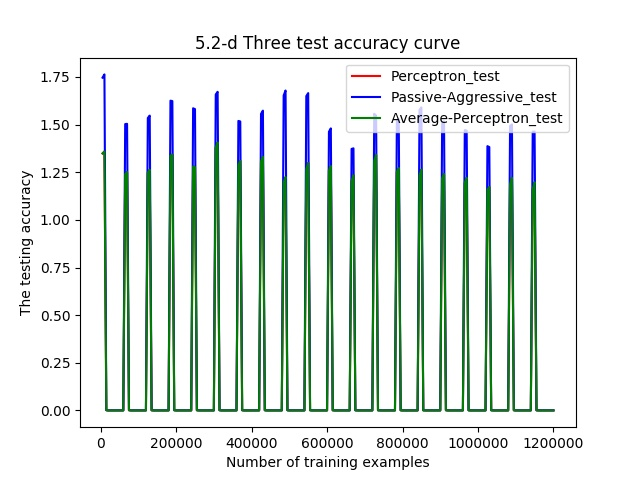
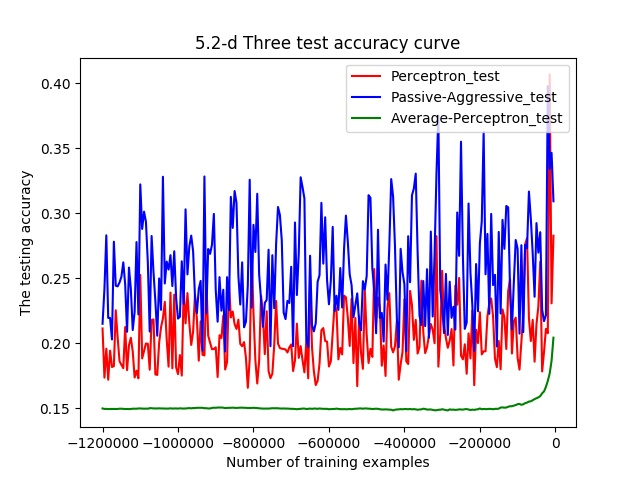
update

diff --git a/machine_learning/hw1/hw1_part2_d.py b/machine_learning/hw1/hw1_part2_d.py
@@ -21,7 +21,7 @@ w_av = np.zeros(shape=(10, 784))
 Mistake_test_Perceptron = np.zeros(T*12)
 Mistake_test_PA = np.zeros(T*12)
 Mistake_test_Average = np.zeros(T*12)
-Total_examples = np.linspace(5000, 5000*240, 240)
+Total_examples = np.linspace(1, 240, 240) * 5000
 
 # Typical variable for average perceptron
 c = 1
@@ -104,13 +104,13 @@ for iteration in range(T):
 end = datetime.datetime.now()
 print("5.2 d:", start, end)
 plt.figure(num=8)
-plt.plot(1 - Total_examples, Mistake_test_Perceptron/len(test), \
+plt.plot(Total_examples, 1 - Mistake_test_Perceptron/len(test), \
          color="red", label="Perceptron_test")
-plt.plot(1 - Total_examples, Mistake_test_PA/len(test), color="blue", \
+plt.plot(Total_examples, 1 - Mistake_test_PA/len(test), color="blue", \
          label="Passive-Aggressive_test")
-plt.plot(1 - Total_examples, Mistake_test_Average/len(test), color="green", \
+plt.plot(Total_examples, 1 - Mistake_test_Average/len(test), color="green", \
          label="Average-Perceptron_test")
-plt.legend(loc='upper right')
+plt.legend()
 plt.xlabel('Number of training examples')
 plt.ylabel('The testing accuracy')
 plt.title("5.2-d Three test accuracy curve")

diff --git a/machine_learning/hw1/hw1_part2_c.py b/machine_learning/hw1/hw1_part2_c.py
@@ -90,11 +90,10 @@ plt.plot(1-Mistake_test_Perceptron/len(test), color="red", \
          label="Perceptron_test")
 plt.plot(1-Mistake_test_Average/len(test), color="blue", \
          label="Averate-Perceptron_test")
-plt.legend(loc='upper right')
+plt.legend()
 plt.xlabel('training iterations')
 plt.ylabel('the mistake ratio')
-plt.title("5.2-c the compare between stand Perceptron and Average Perceptron of \
-          20 iterations")
+plt.title("5.2-c Stand and Average Perceptron of 20 iterations")
 plt.savefig('./part2_c.jpg')
 plt.show()
 

diff --git a/machine_learning/hw1/hw1_part2_b.py b/machine_learning/hw1/hw1_part2_b.py
@@ -86,7 +86,7 @@ plt.plot(1-Mistake_test_Perceptron/len(test), color="red", \
 plt.plot(1-Mistake_PA/len(train), color="blue", label="Passive-Aggressive")
 plt.plot(1-Mistake_test_PA/len(test), color="blue", \
          label="Passive-Aggressive_test", linestyle='--')
-plt.legend(loc='upper right')
+plt.legend()
 plt.xlabel('training iterations')
 plt.ylabel('the number of mistakes')
 plt.title("5.2-b four accuracy curves for 20 iterations")
